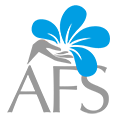
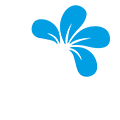
fixed loading style, no grey background now on loading wheel [4]

Changed region(s): [[0.05, 0.325, 0.65, 0.95], [0.65, 0.625, 0.925, 0.95], [0.8, 0.525, 0.9, 0.625]]

diff --git a/public/css/main.css b/public/css/main.css
@@ -214,22 +214,22 @@ main > section {
 
 /*Battery*/
 .loder-box {
-  background-color: rgba(0, 0, 0, 0.02);
+  background-color: rgba(0, 0, 0);
   border-radius: 1px;
-  height: 100px;
   left: 50%;
   margin-left: -64px;
   margin-top: -50px;
   position: absolute;
   top: 50%;
-  width: 128px;
+  height: 80px;
+  width: 80px;
 }
 
 .battery{
     width: 60px;
     height: 25px;
     top: 35%;
-    border: 1px #2E2E2E solid;
+    border: 1px #fff solid;
     border-radius: 2px;
     position: relative;
     -webkit-animation: charge 5s linear infinite;
@@ -239,7 +239,7 @@ main > section {
 }
 
 .battery:after {
-  background-color: #2E2E2E;
+  background-color: #fff;
   border-radius: 0 1px 1px 0;
   content: "";
   height: 10px;
@@ -250,22 +250,19 @@ main > section {
 }
 
 @-webkit-keyframes charge{
-    0%{box-shadow: inset 0px 0px 0px #2E2E2E;}
-    100%{box-shadow: inset 60px 0px 0px #2E2E2E;}
+    0%{box-shadow: inset 0px 0px 0px #fff;}
+    100%{box-shadow: inset 60px 0px 0px #fff;}
 }
 
 @-moz-keyframes charge{
-    0%{box-shadow: inset 0px 0px 0px #2E2E2E;}
-    100%{box-shadow: inset 60px 0px 0px #2E2E2E;}
+    0%{box-shadow: inset 0px 0px 0px #fff;}
+    100%{box-shadow: inset 60px 0px 0px #fff;}
 }
 
 @keyframes charge{
-    0%{box-shadow: inset 0px 0px 0px #2E2E2E;}
-    100%{box-shadow: inset 60px 0px 0px #2E2E2E;}
+    0%{box-shadow: inset 0px 0px 0px #fff;}
+    100%{box-shadow: inset 60px 0px 0px #fff;}
 }
-
-
-
 
 
 /**
